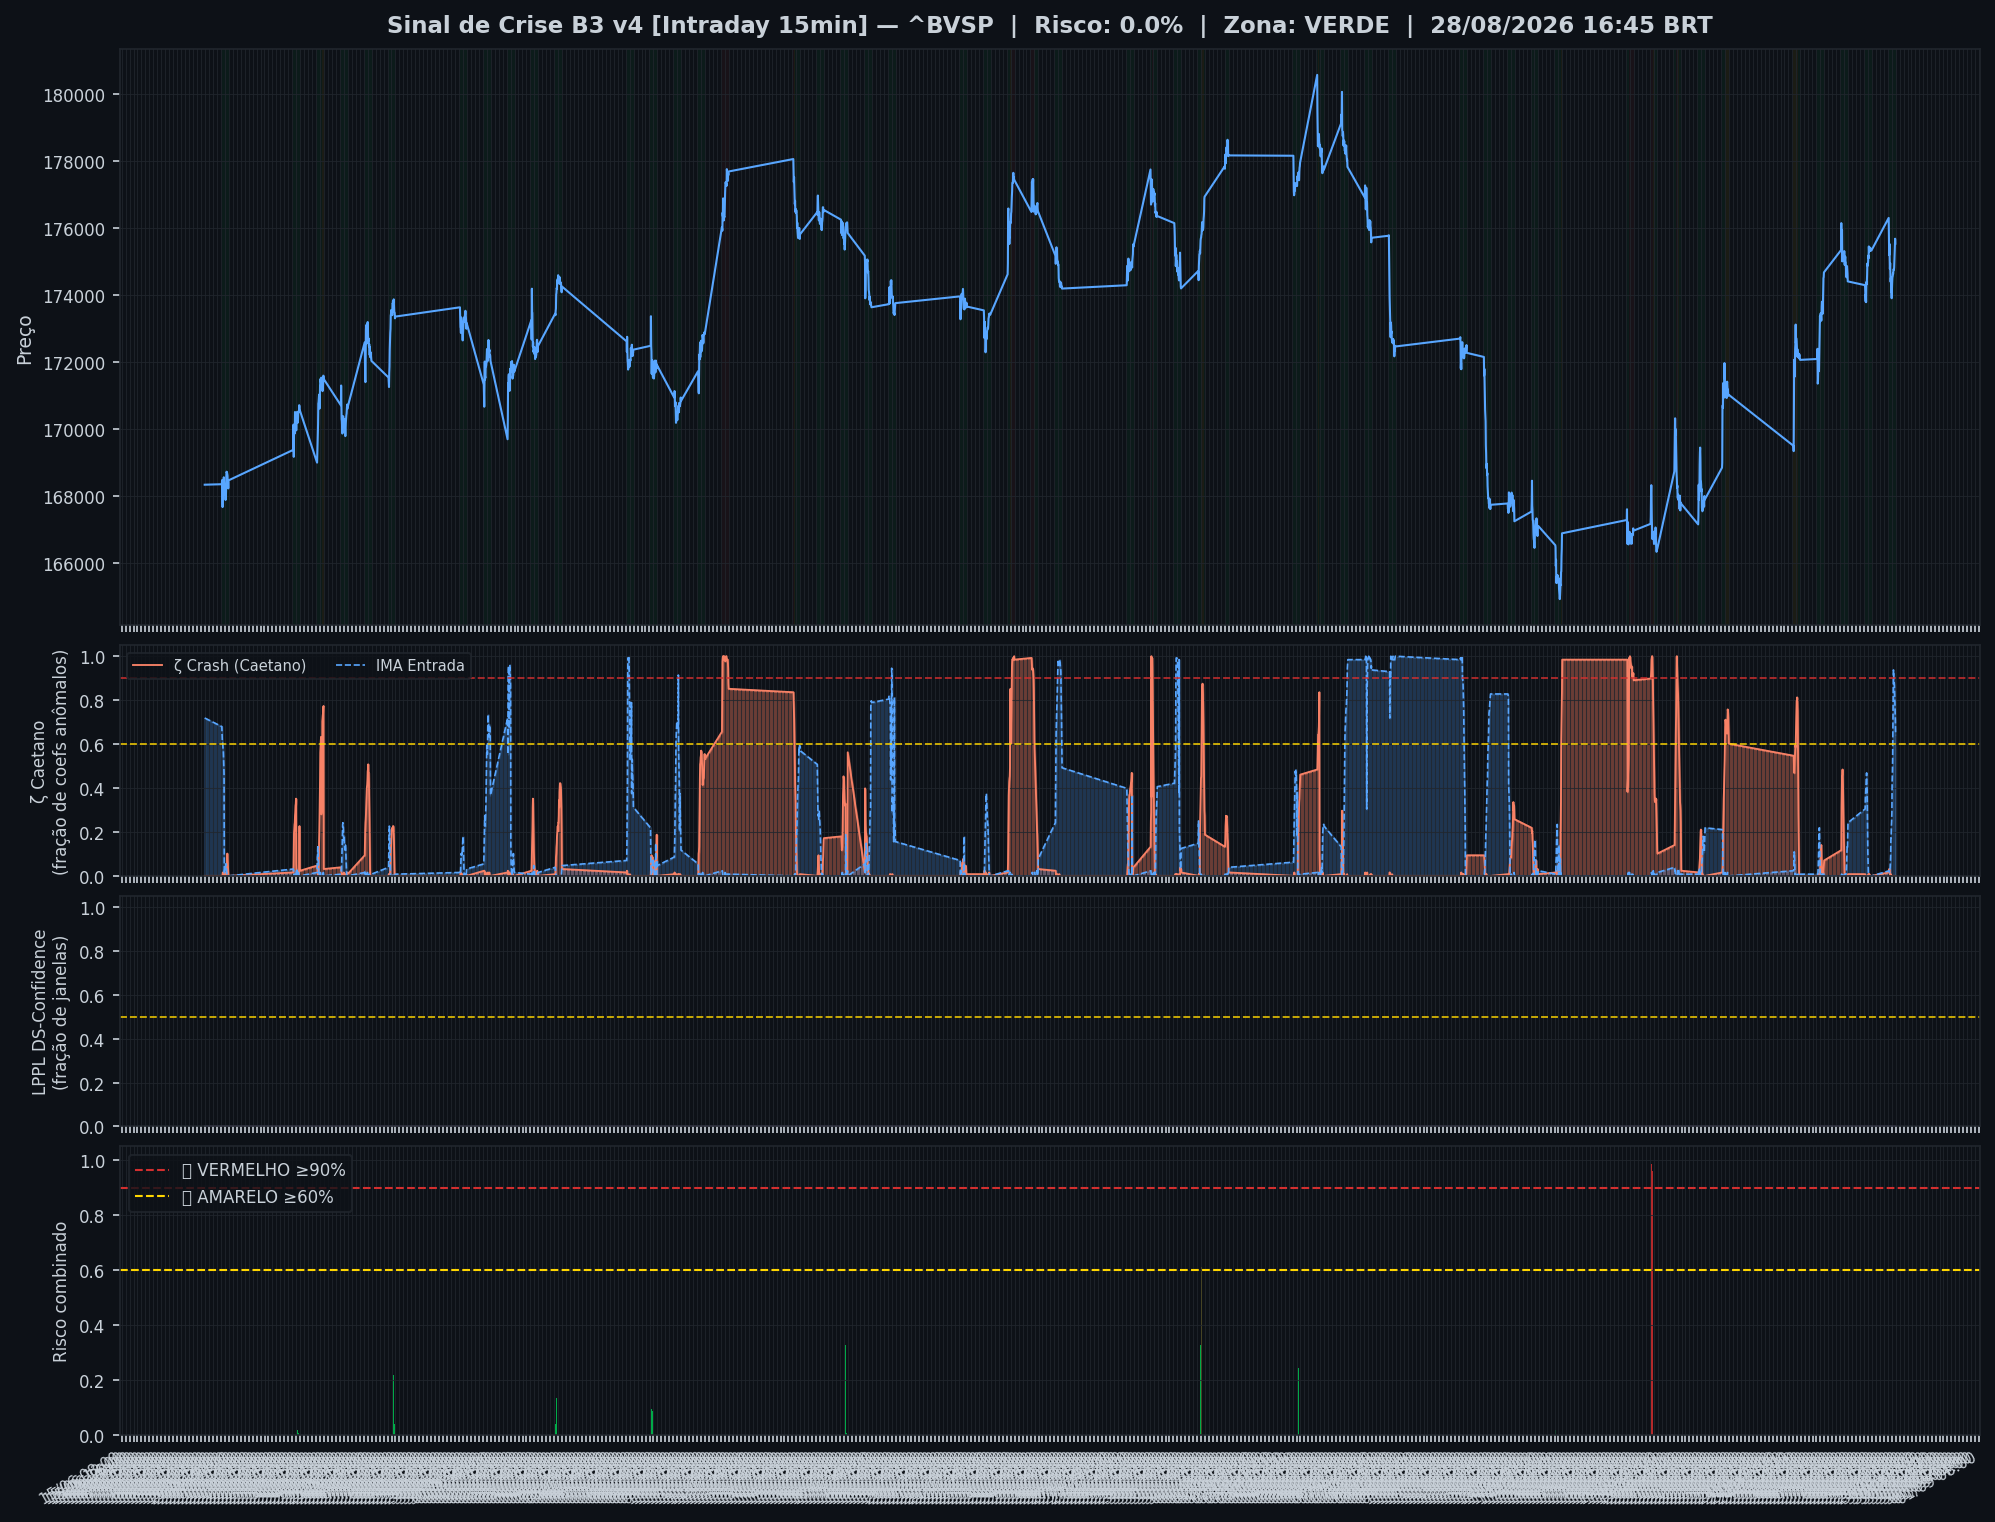
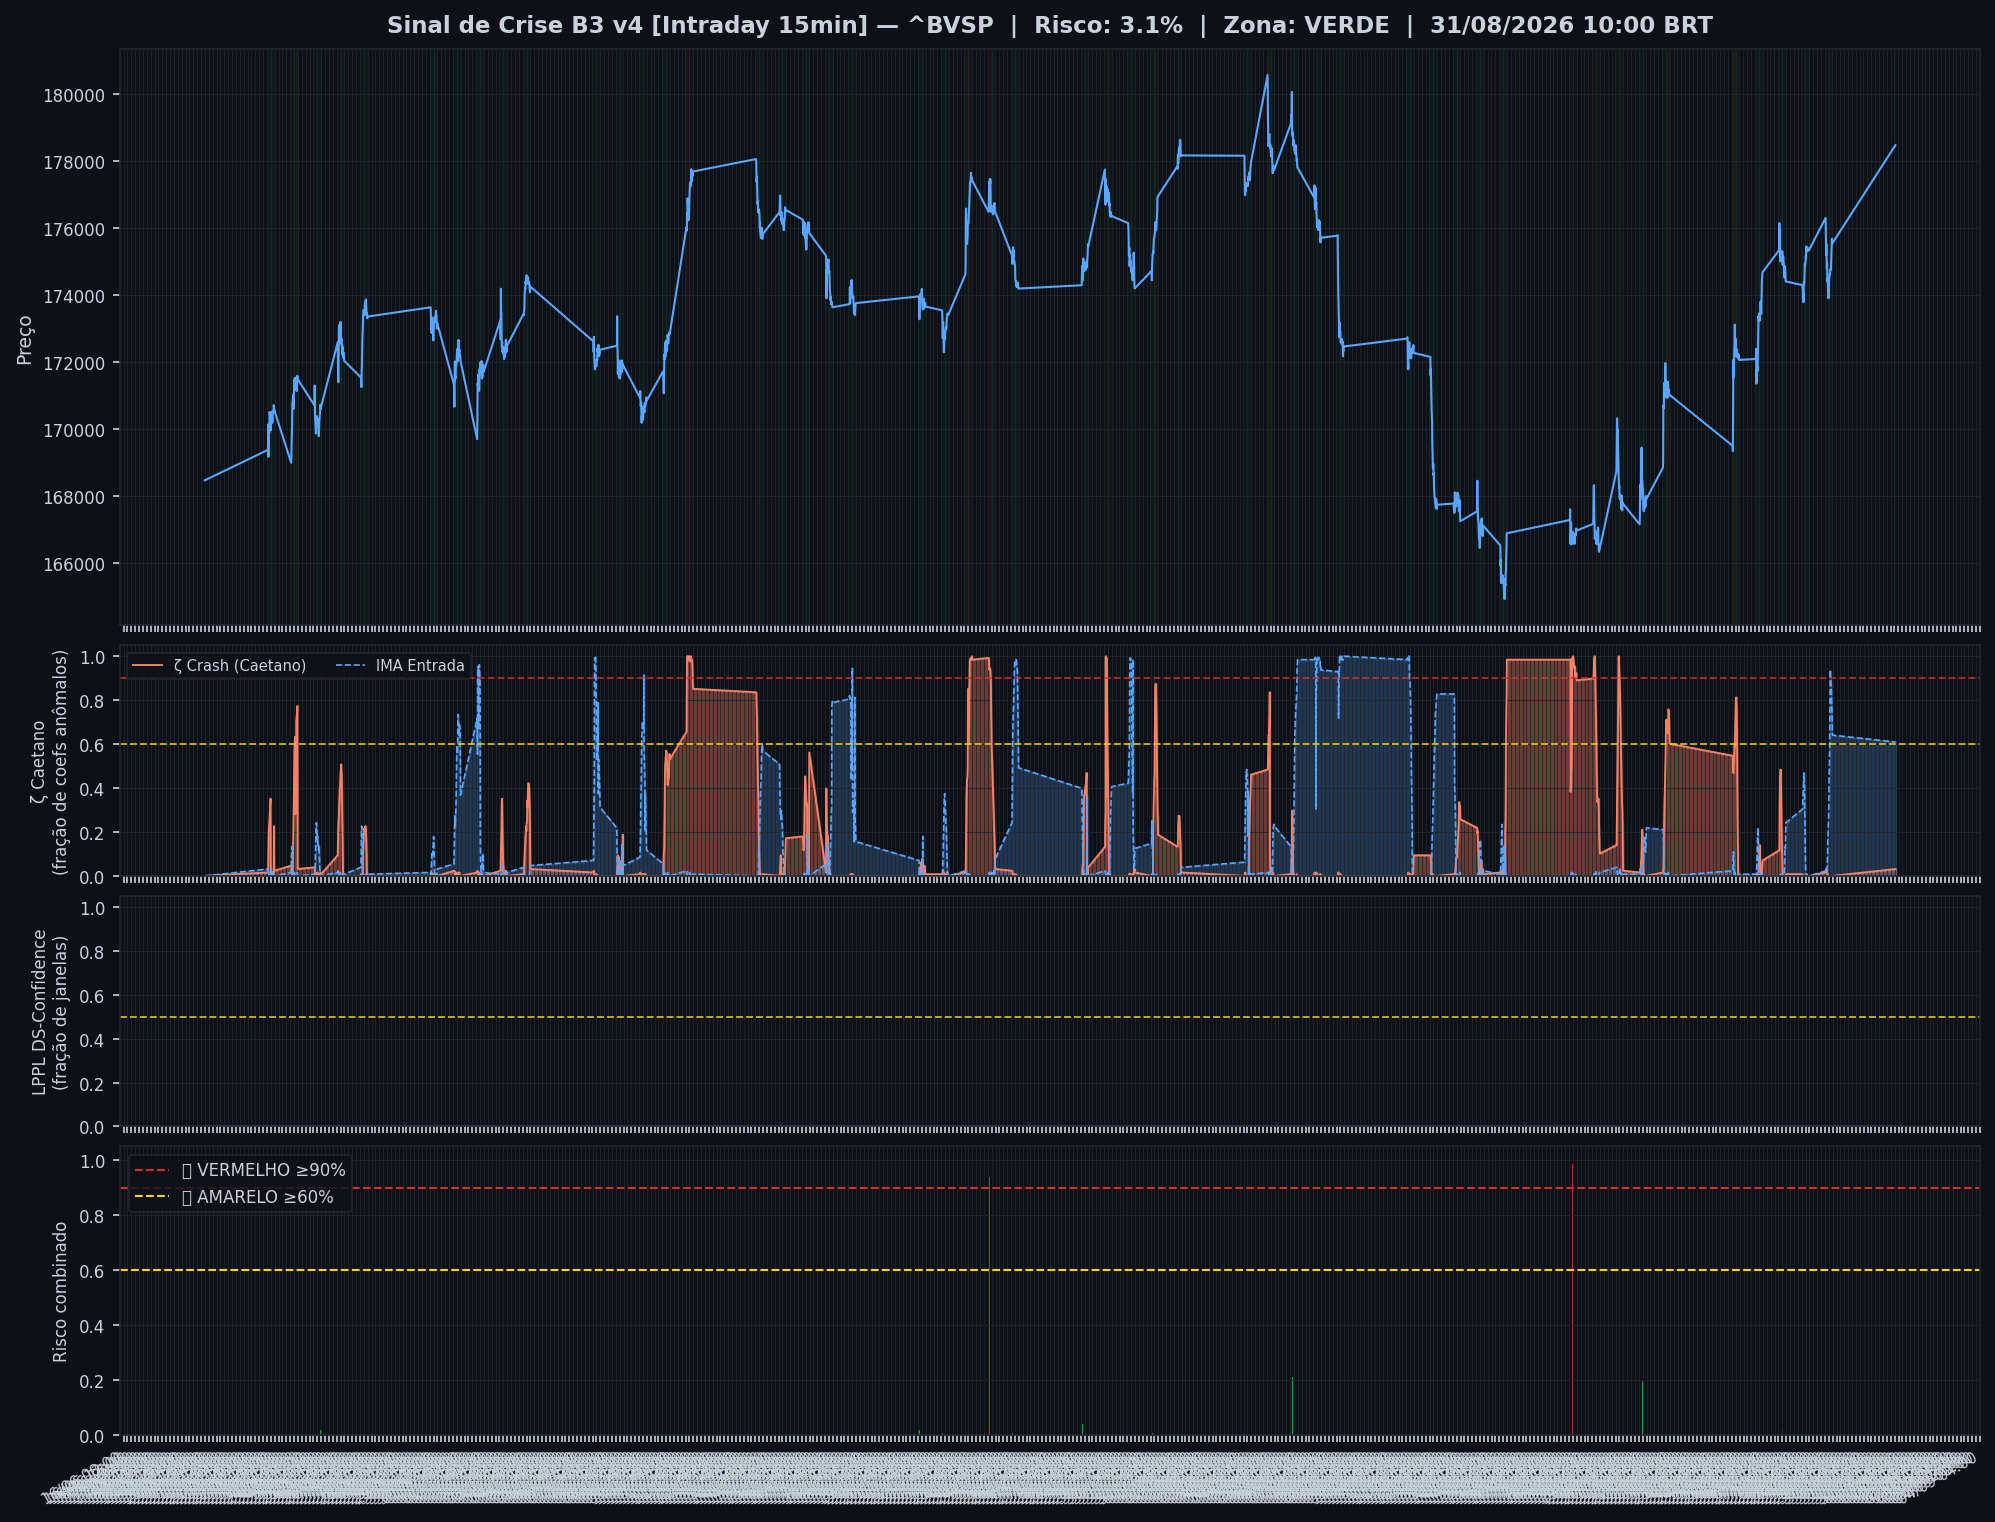
🤖 Auto: Sinal 31/08/2026 10:45

diff --git a/content/intraday/2026-08-31.md b/content/intraday/2026-08-31.md
@@ -1,0 +1,105 @@
+---
+title: "🟢 Intraday 31/08/2026 10:00 BRT — VERDE"
+date: 2026-08-31
+tags: [intraday]
+---
+
+> [!success] 🟢 **VERDE** — Risco 3% · ▲ +3 p.p. vs leitura anterior
+> `█░░░░░░░░░░░░░░░░░░░`
+> Mercado sem sinais relevantes de estresse.
+
+
+| Indicador | Valor |
+|---|---|
+| 🔴 ζ Crash — severidade da queda em curso | **3%** |
+| 🔵 ζ Entrada — estrutura de fundo | 61% |
+| 🫧 LPPL DS-Confidence | 0% |
+| 📊 Ibovespa | 178.466 pts |
+
+![Gráfico do sinal](../graficos/sinal_intraday.png)
+
+## Últimos 30 pregões
+
+| Data | Zona | Risco | IMA Crash | Entrada | LPPL |
+|---|---|---|---|---|---|
+| 2026-08-31 10:00 | 🟢 VERDE | **3%** | 3% | 61% | 0% |
+| 2026-08-28 16:45 | 🟢 VERDE | **0%** | 0% | 64% | 0% |
+| 2026-08-28 16:30 | 🟢 VERDE | **0%** | 0% | 71% | 0% |
+| 2026-08-28 16:15 | 🟢 VERDE | **0%** | 0% | 77% | 0% |
+| 2026-08-28 16:00 | 🟢 VERDE | **0%** | 0% | 80% | 0% |
+| 2026-08-28 15:45 | 🟢 VERDE | **0%** | 0% | 83% | 0% |
+| 2026-08-28 15:30 | 🟢 VERDE | **0%** | 0% | 87% | 0% |
+| 2026-08-28 15:15 | 🟢 VERDE | **0%** | 0% | 88% | 0% |
+| 2026-08-28 15:00 | 🟢 VERDE | **0%** | 0% | 90% | 0% |
+| 2026-08-28 14:45 | 🟢 VERDE | **0%** | 0% | 93% | 0% |
+| 2026-08-28 14:30 | 🟢 VERDE | **0%** | 0% | 94% | 0% |
+| 2026-08-28 14:15 | 🟢 VERDE | **0%** | 0% | 76% | 0% |
+| 2026-08-28 14:00 | 🟢 VERDE | **0%** | 0% | 67% | 0% |
+| 2026-08-28 13:45 | 🟢 VERDE | **0%** | 0% | 53% | 0% |
+| 2026-08-28 13:30 | 🟢 VERDE | **0%** | 0% | 47% | 0% |
+| 2026-08-28 13:15 | 🟢 VERDE | **0%** | 0% | 43% | 0% |
+| 2026-08-28 13:00 | 🟢 VERDE | **0%** | 0% | 29% | 0% |
+| 2026-08-28 12:45 | 🟢 VERDE | **0%** | 0% | 25% | 0% |
+| 2026-08-28 12:30 | 🟢 VERDE | **0%** | 0% | 23% | 0% |
+| 2026-08-28 12:15 | 🟢 VERDE | **0%** | 0% | 17% | 0% |
+| 2026-08-28 12:00 | 🟢 VERDE | **0%** | 0% | 17% | 0% |
+| 2026-08-28 11:45 | 🟢 VERDE | **1%** | 1% | 9% | 0% |
+| 2026-08-28 11:30 | 🟢 VERDE | **0%** | 0% | 7% | 0% |
+| 2026-08-28 11:15 | 🟢 VERDE | **1%** | 1% | 4% | 0% |
+| 2026-08-28 11:00 | 🟢 VERDE | **2%** | 2% | 3% | 0% |
+| 2026-08-28 10:45 | 🟢 VERDE | **3%** | 3% | 2% | 0% |
+| 2026-08-28 10:30 | 🟢 VERDE | **3%** | 3% | 2% | 0% |
+| 2026-08-28 10:15 | 🟢 VERDE | **3%** | 3% | 2% | 0% |
+| 2026-08-28 10:00 | 🟢 VERDE | **2%** | 2% | 2% | 0% |
+| 2026-08-27 16:45 | 🟢 VERDE | **0%** | 0% | 0% | 0% |
+
+## Monitor Multi-Ativo
+
+**0% dos ativos em tensão** (0🔴 0🟡) — quanto mais ativos disparam juntos, mais confiável o sinal.
+
+| Zona | Ativo | Setor | IMA Crash | IMA Entrada |
+|---|---|---|---|---|
+| 🟢 | **AXIA ENERGIA** | Energia | 13.3% | 13.3% |
+| 🟢 | **VALE** | Mineração | 6.2% | 20.3% |
+| 🟢 | **ITAUUNIBANCO** | Financeiro | 6.2% | 20.3% |
+| 🟢 | **PETROBRAS** | Petróleo | 6.2% | 20.3% |
+| 🟢 | **PETROBRAS** | Petróleo | 6.2% | 20.3% |
+| 🟢 | **BRADESCO** | Financeiro | 6.2% | 20.3% |
+| 🟢 | **B3** | Financeiro | 6.2% | 20.3% |
+| 🟢 | **ITAUSA** | Financeiro | 6.2% | 20.3% |
+| 🟢 | **WEG** | Industrial | 6.2% | 20.3% |
+| 🟢 | **SABESP** | Saneamento | 6.2% | 20.3% |
+| 🟢 | **EMBRAER** | Outros | 6.2% | 20.3% |
+| 🟢 | **AMBEV S/A** | Consumo | 6.2% | 20.3% |
+| 🟢 | **BTGP BANCO** | Financeiro | 6.2% | 20.3% |
+| 🟢 | **BRASIL** | Financeiro | 6.2% | 20.3% |
+| 🟢 | **ENEVA** | Energia | 6.2% | 20.3% |
+| 🟢 | **EQUATORIAL** | Energia | 6.2% | 20.3% |
+| 🟢 | **PRIO** | Petróleo | 6.2% | 20.3% |
+| 🟢 | **COPEL** | Energia | 6.2% | 20.3% |
+| 🟢 | **VIBRA** | Energia | 6.2% | 20.3% |
+| 🟢 | **REDE D OR** | Saúde | 6.2% | 20.3% |
+| 🟢 | **ULTRAPAR** | Outros | 6.2% | 20.3% |
+| 🟢 | **LOCALIZA** | Aluguel | 6.2% | 20.3% |
+| 🟢 | **GERDAU** | Siderurgia | 6.2% | 20.3% |
+| 🟢 | **SUZANO S.A.** | Papel/Celulose | 6.2% | 20.3% |
+| 🟢 | **RAIADROGASIL** | Outros | 6.2% | 20.3% |
+| 🟢 | **BBSEGURIDADE** | Financeiro | 6.2% | 20.3% |
+| 🟢 | **USD/BRL** | Câmbio | 1.6% | 27.3% |
+
+![Monitor multi-ativo](../graficos/multi_intraday.png)
+
+*Página atualizada em 31/08/2026 10:45 BRT (leitura da barra de 2026-08-31 10:00 BRT).*
+
+> [!info]- Como interpretar (clique para expandir)
+> - **ζ Crash**: fração dos coeficientes wavelet acima do corte (Caetano & Yoneyama 2009). Escala absoluta: ζ=0,90 = 90% dos coeficientes anômalos — historicamente, quedas com ζ≥0,90 foram mais fundas e mais longas. **Mede a severidade do movimento em curso, não prevê o início da queda.**
+> - **ζ Entrada**: coeficientes negativos além do corte — estrutura de fundo, possível região de compra.
+> - **LPPL DS-Confidence**: fração de janelas (60–504 pregões) em que o modelo de bolha de Sornette produz um ajuste válido. 30% já é relevante; acima de 50% é forte evidência de estrutura de bolha.
+> - **Zonas com histerese**: o sinal só muda de zona ao cruzar o limiar de entrada, e só volta ao cruzar o de saída — evita flip-flop diário.
+
+
+---
+*Sinal de Crise B3 v4 · IMA Wavelet ([Caetano & Yoneyama, Physica-A 2007](https://doi.org/10.1016/j.physa.2007.03.054)) + LPPL DS-Confidence (Sornette, ETH-Zurich) · [Metodologia](metodologia) · [Histórico](historico)*
+
+> [!quote]- Aviso
+> Estudo acadêmico. Não constitui recomendação de investimento.

diff --git a/content/index.md b/content/index.md
@@ -1,6 +1,6 @@
 ---
 title: Sinal de Crise B3
-date: 2026-08-28
+date: 2026-08-31
 tags: [home]
 ---
 
@@ -8,19 +8,19 @@ tags: [home]
 
 Monitoramento diário e intraday do Ibovespa — **IMA Wavelet** (Prof. Marco Antonio Leonel Caetano, ITA/INSPER) + **LPPL DS-Confidence** (Prof. Didier Sornette, ETH-Zurich).
 
-*Última atualização: 28/08/2026 19:00 BRT · ^BVSP · Diário D1 · v4*
+*Última atualização: 31/08/2026 10:45 BRT · ^BVSP · Intraday 15min · v4*
 
-> [!success] 🟢 **VERDE** — Risco 6% · ▲ +2 p.p. vs leitura anterior
+> [!success] 🟢 **VERDE** — Risco 3% · ▲ +3 p.p. vs leitura anterior
 > `█░░░░░░░░░░░░░░░░░░░`
 > Mercado sem sinais relevantes de estresse.
 
 
 | Indicador | Valor |
 |---|---|
-| 🔴 ζ Crash — severidade da queda em curso | **9%** |
-| 🔵 ζ Entrada — estrutura de fundo | 0% |
+| 🔴 ζ Crash — severidade da queda em curso | **3%** |
+| 🔵 ζ Entrada — estrutura de fundo | 61% |
 | 🫧 LPPL DS-Confidence | 0% |
-| 📊 Ibovespa | 175.665 pts |
+| 📊 Ibovespa | 178.466 pts |
 
 **Multi-ativo:** 0% em tensão (0🔴 0🟡 de 27 ativos)
 
@@ -32,13 +32,9 @@ Monitoramento diário e intraday do Ibovespa — **IMA Wavelet** (Prof. Marco An
 
 | Data | Zona | Risco | IMA | LPPL |
 |---|---|---|---|---|
-| [27 Aug 2026](diario/2026-08-27) | 🟢 VERDE | **6%** | 9% | 0% |
-| [26 Aug 2026](diario/2026-08-26) | 🟢 VERDE | **4%** | 6% | 0% |
-| [25 Aug 2026](diario/2026-08-25) | 🟢 VERDE | **2%** | 4% | 0% |
-| [24 Aug 2026](diario/2026-08-24) | 🟢 VERDE | **0%** | 1% | 0% |
-| [23 Aug 2026](diario/2026-08-23) | 🟢 VERDE | **0%** | 0% | 0% |
-| [20 Aug 2026](diario/2026-08-20) | 🟢 VERDE | **0%** | 0% | 0% |
-| [19 Aug 2026](diario/2026-08-19) | 🟢 VERDE | **0%** | 0% | 0% |
+| [31 Aug 2026](diario/2026-08-31) | 🟢 VERDE | **3%** | 3% | 0% |
+| [28 Aug 2026](diario/2026-08-28) | 🟢 VERDE | **0%** | 0% | 0% |
+| [27 Aug 2026](diario/2026-08-27) | 🟢 VERDE | **0%** | 0% | 0% |
 
 ## Navegação
 

diff --git a/content/historico.md b/content/historico.md
@@ -7,6 +7,7 @@ tags: [historico]
 
 | Data | Modo | Zona | Risco | IMA | LPPL |
 |---|---|---|---|---|---|
+| 2026-08-31 10:00 | intraday | 🟢 VERDE | 3% | 3% | 0% |
 | 2026-08-27 | diario | 🟢 VERDE | 6% | 9% | 0% |
 | 2026-08-28 16:45 | intraday | 🟢 VERDE | 0% | 0% | 0% |
 | 2026-08-28 16:30 | intraday | 🟢 VERDE | 0% | 0% | 0% |
